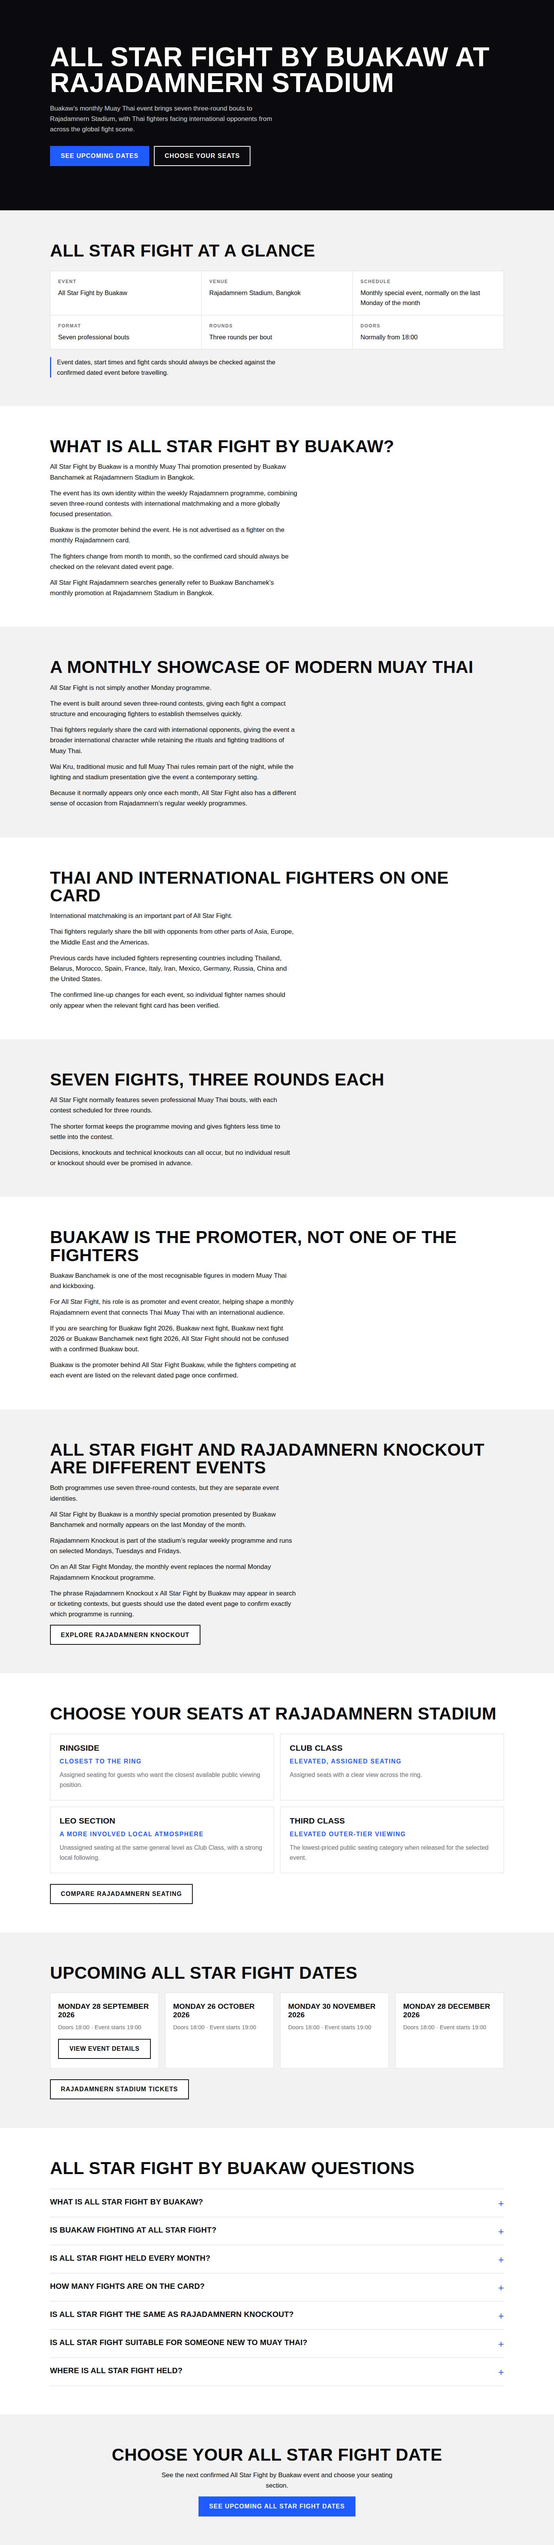
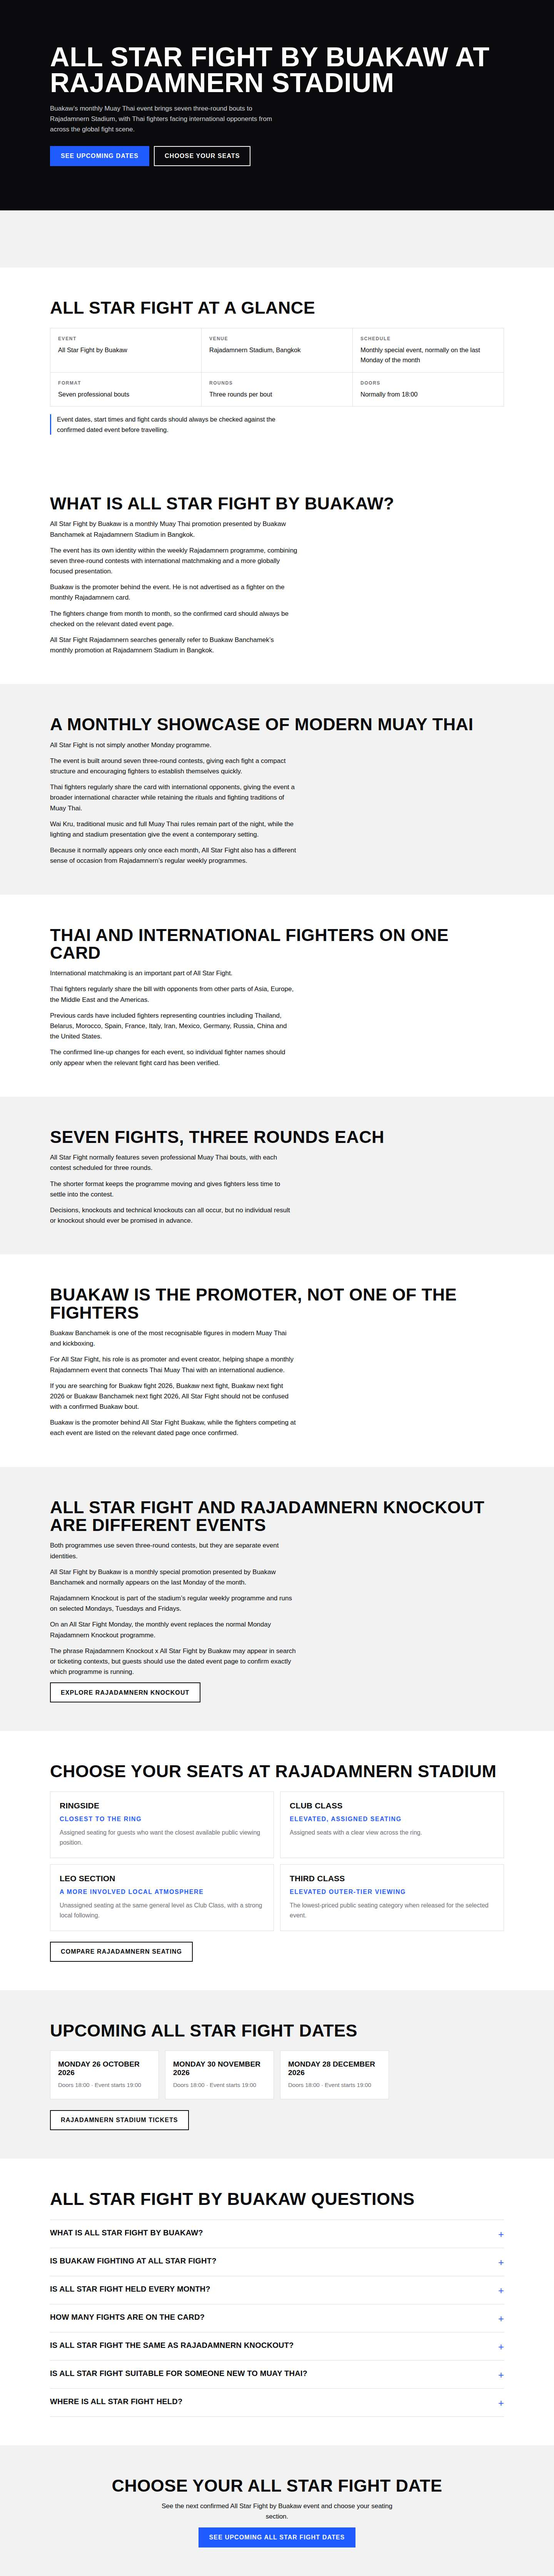
All Star hub: add the booking widget and drop the past date
The hub had no way to book: its blue buttons sent guests to the 28 September
page, which is in the past. The widget now sits under the hero as a series
mount, so only All Star nights can be booked (26 Oct, 30 Nov, 28 Dec, already
the only future nights in the database). The buttons jump to it, the past
28 September card is off the hub, and verify.mjs accepts the card button copy
being absent while no dated page exists. Wording is Document A's, unchanged.

Claude-Session: https://claude.ai/code/session_01KJfBegVkwrLgzgRP3UNWWd

diff --git a/pages/all-star/hub-source.html b/pages/all-star/hub-source.html
@@ -561,13 +561,23 @@
       <h1>All Star Fight by Buakaw at Rajadamnern Stadium</h1>
       <p class="mtx-as__lede">Buakaw’s monthly Muay Thai event brings seven three-round bouts to Rajadamnern Stadium, with Thai fighters facing international opponents from across the global fight scene.</p>
       <p class="mtx-as__actions">
-        <a class="mtx-as__btn mtx-as__btn--blue" href="/all-star-fight-by-buakaw/2026-09-28">See Upcoming Dates</a>
+        <a class="mtx-as__btn mtx-as__btn--blue" href="#book">See Upcoming Dates</a>
         <a class="mtx-as__btn mtx-as__btn--ghost" href="/rajadamnern-stadium-seating">Choose Your Seats</a>
       </p>
     </div>
   </header>
 
-  <section class="mtx-as__band mtx-as__band--paper">
+  <!-- Booking widget on the hub (Jason, 11 October 2026). Series mount: it sells
+       All Star Fight by Buakaw nights and nothing else, so only the last Monday
+       of each month can be booked. Same pattern as the Petchyindee and New Power
+       hubs. -->
+  <section class="mtx-as__band mtx-as__band--paper" id="book">
+    <div class="mtx-as__shell">
+      <div class="muaytix-ticket-selector" data-series="all-star-buakaw"></div>
+    </div>
+  </section>
+
+  <section class="mtx-as__band mtx-as__band">
     <div class="mtx-as__shell">
       <h2>All Star Fight at a glance</h2>
       <dl class="mtx-as__facts">
@@ -707,12 +717,6 @@
     <div class="mtx-as__shell">
       <h2>Upcoming All Star Fight dates</h2>
       <ul class="mtx-as__dates" data-mtx-dates>
-        <li class="mtx-as__datecard" data-mtx-cutoff="2026-09-28T11:30:00Z">
-          <h3>Monday 28 September 2026</h3>
-          <p class="mtx-as__times">Doors 18:00 &middot; Event starts 19:00</p>
-          <p class="mtx-as__cardbtn"><a class="mtx-as__btn mtx-as__btn--outline" href="/all-star-fight-by-buakaw/2026-09-28">View event details</a></p>
-        </li>
-
         <li class="mtx-as__datecard" data-mtx-cutoff="2026-10-26T11:30:00Z">
           <h3>Monday 26 October 2026</h3>
           <p class="mtx-as__times">Doors 18:00 &middot; Event starts 19:00</p>
@@ -781,7 +785,7 @@
       <h2>Choose your All Star Fight date</h2>
       <p>See the next confirmed All Star Fight by Buakaw event and choose your seating section.</p>
       <p class="mtx-as__ctarow">
-        <a class="mtx-as__btn mtx-as__btn--blue" href="/all-star-fight-by-buakaw/2026-09-28">See Upcoming All Star Fight Dates</a>
+        <a class="mtx-as__btn mtx-as__btn--blue" href="#book">See Upcoming All Star Fight Dates</a>
       </p>
     </div>
   </section>

diff --git a/pages/all-star/hub-body.html b/pages/all-star/hub-body.html
@@ -3,13 +3,23 @@
       <h1>All Star Fight by Buakaw at Rajadamnern Stadium</h1>
       <p class="mtx-as__lede">Buakaw’s monthly Muay Thai event brings seven three-round bouts to Rajadamnern Stadium, with Thai fighters facing international opponents from across the global fight scene.</p>
       <p class="mtx-as__actions">
-        <a class="mtx-as__btn mtx-as__btn--blue" href="/all-star-fight-by-buakaw/2026-09-28">See Upcoming Dates</a>
+        <a class="mtx-as__btn mtx-as__btn--blue" href="#book">See Upcoming Dates</a>
         <a class="mtx-as__btn mtx-as__btn--ghost" href="/rajadamnern-stadium-seating">Choose Your Seats</a>
       </p>
     </div>
   </header>
 
-  <section class="mtx-as__band mtx-as__band--paper">
+  <!-- Booking widget on the hub (Jason, 11 October 2026). Series mount: it sells
+       All Star Fight by Buakaw nights and nothing else, so only the last Monday
+       of each month can be booked. Same pattern as the Petchyindee and New Power
+       hubs. -->
+  <section class="mtx-as__band mtx-as__band--paper" id="book">
+    <div class="mtx-as__shell">
+      <div class="muaytix-ticket-selector" data-series="all-star-buakaw"></div>
+    </div>
+  </section>
+
+  <section class="mtx-as__band mtx-as__band">
     <div class="mtx-as__shell">
       <h2>All Star Fight at a glance</h2>
       <dl class="mtx-as__facts">
@@ -149,12 +159,6 @@
     <div class="mtx-as__shell">
       <h2>Upcoming All Star Fight dates</h2>
       <ul class="mtx-as__dates" data-mtx-dates>
-        <li class="mtx-as__datecard" data-mtx-cutoff="2026-09-28T11:30:00Z">
-          <h3>Monday 28 September 2026</h3>
-          <p class="mtx-as__times">Doors 18:00 &middot; Event starts 19:00</p>
-          <p class="mtx-as__cardbtn"><a class="mtx-as__btn mtx-as__btn--outline" href="/all-star-fight-by-buakaw/2026-09-28">View event details</a></p>
-        </li>
-
         <li class="mtx-as__datecard" data-mtx-cutoff="2026-10-26T11:30:00Z">
           <h3>Monday 26 October 2026</h3>
           <p class="mtx-as__times">Doors 18:00 &middot; Event starts 19:00</p>
@@ -223,7 +227,7 @@
       <h2>Choose your All Star Fight date</h2>
       <p>See the next confirmed All Star Fight by Buakaw event and choose your seating section.</p>
       <p class="mtx-as__ctarow">
-        <a class="mtx-as__btn mtx-as__btn--blue" href="/all-star-fight-by-buakaw/2026-09-28">See Upcoming All Star Fight Dates</a>
+        <a class="mtx-as__btn mtx-as__btn--blue" href="#book">See Upcoming All Star Fight Dates</a>
       </p>
     </div>
   </section>

diff --git a/pages/all-star/all-star-HUB-PASTE-INTO-TILDA.html b/pages/all-star/all-star-HUB-PASTE-INTO-TILDA.html
@@ -429,13 +429,20 @@
       <h1>All Star Fight by Buakaw at Rajadamnern Stadium</h1>
       <p class="mtx-as__lede">Buakaw’s monthly Muay Thai event brings seven three-round bouts to Rajadamnern Stadium, with Thai fighters facing international opponents from across the global fight scene.</p>
       <p class="mtx-as__actions">
-        <a class="mtx-as__btn mtx-as__btn--blue" href="/all-star-fight-by-buakaw/2026-09-28">See Upcoming Dates</a>
+        <a class="mtx-as__btn mtx-as__btn--blue" href="#book">See Upcoming Dates</a>
         <a class="mtx-as__btn mtx-as__btn--ghost" href="/rajadamnern-stadium-seating">Choose Your Seats</a>
       </p>
     </div>
   </header>
 
-  <section class="mtx-as__band mtx-as__band--paper">
+  
+  <section class="mtx-as__band mtx-as__band--paper" id="book">
+    <div class="mtx-as__shell">
+      <div class="muaytix-ticket-selector" data-series="all-star-buakaw"></div>
+    </div>
+  </section>
+
+  <section class="mtx-as__band mtx-as__band">
     <div class="mtx-as__shell">
       <h2>All Star Fight at a glance</h2>
       <dl class="mtx-as__facts">
@@ -575,12 +582,6 @@
     <div class="mtx-as__shell">
       <h2>Upcoming All Star Fight dates</h2>
       <ul class="mtx-as__dates" data-mtx-dates>
-        <li class="mtx-as__datecard" data-mtx-cutoff="2026-09-28T11:30:00Z">
-          <h3>Monday 28 September 2026</h3>
-          <p class="mtx-as__times">Doors 18:00 &middot; Event starts 19:00</p>
-          <p class="mtx-as__cardbtn"><a class="mtx-as__btn mtx-as__btn--outline" href="/all-star-fight-by-buakaw/2026-09-28">View event details</a></p>
-        </li>
-
         <li class="mtx-as__datecard" data-mtx-cutoff="2026-10-26T11:30:00Z">
           <h3>Monday 26 October 2026</h3>
           <p class="mtx-as__times">Doors 18:00 &middot; Event starts 19:00</p>
@@ -649,7 +650,7 @@
       <h2>Choose your All Star Fight date</h2>
       <p>See the next confirmed All Star Fight by Buakaw event and choose your seating section.</p>
       <p class="mtx-as__ctarow">
-        <a class="mtx-as__btn mtx-as__btn--blue" href="/all-star-fight-by-buakaw/2026-09-28">See Upcoming All Star Fight Dates</a>
+        <a class="mtx-as__btn mtx-as__btn--blue" href="#book">See Upcoming All Star Fight Dates</a>
       </p>
     </div>
   </section>

diff --git a/CLAUDE.md b/CLAUDE.md
@@ -159,6 +159,21 @@ address (Cloudflare and Tilda, not checkable from here), and add
 (needs a deploy, so ask first) or its guests get `/payment-failed` from Stripe's
 back arrow.
 
+### All Star Fight by Buakaw hub (rebuilt 11 October 2026, NOT yet pasted)
+
+`pages/all-star/`. The hub now carries the booking widget straight under the
+hero as a series mount (`data-series="all-star-buakaw"`, same pattern as the
+Petchyindee and New Power hubs), so only All Star nights can be booked. The
+database already holds exactly three future nights, the last Monday of each
+month (26 Oct, 30 Nov, 28 Dec 2026), all released, Third Class not released.
+The hub's two blue buttons now jump to the widget (`#book`) instead of the past
+28 September page, and the 28 September card is off the hub (`on_hub: false` in
+`dynamic-data.json`). Wording is still Document A's, untouched. Paste file:
+`all-star-HUB-PASTE-INTO-TILDA.html`, generated by `node gen.mjs && node
+build.mjs`; `verify.mjs` passes. Document A still holds "Unassigned seating" on
+the LEO card and "book your seats" in the meta description, both on the
+banned list in section 2; left as supplied, flagged to Jason.
+
 ### Fonts
 
 **Barlow** for body, **Barlow Condensed** for headings and buttons. No page loads
